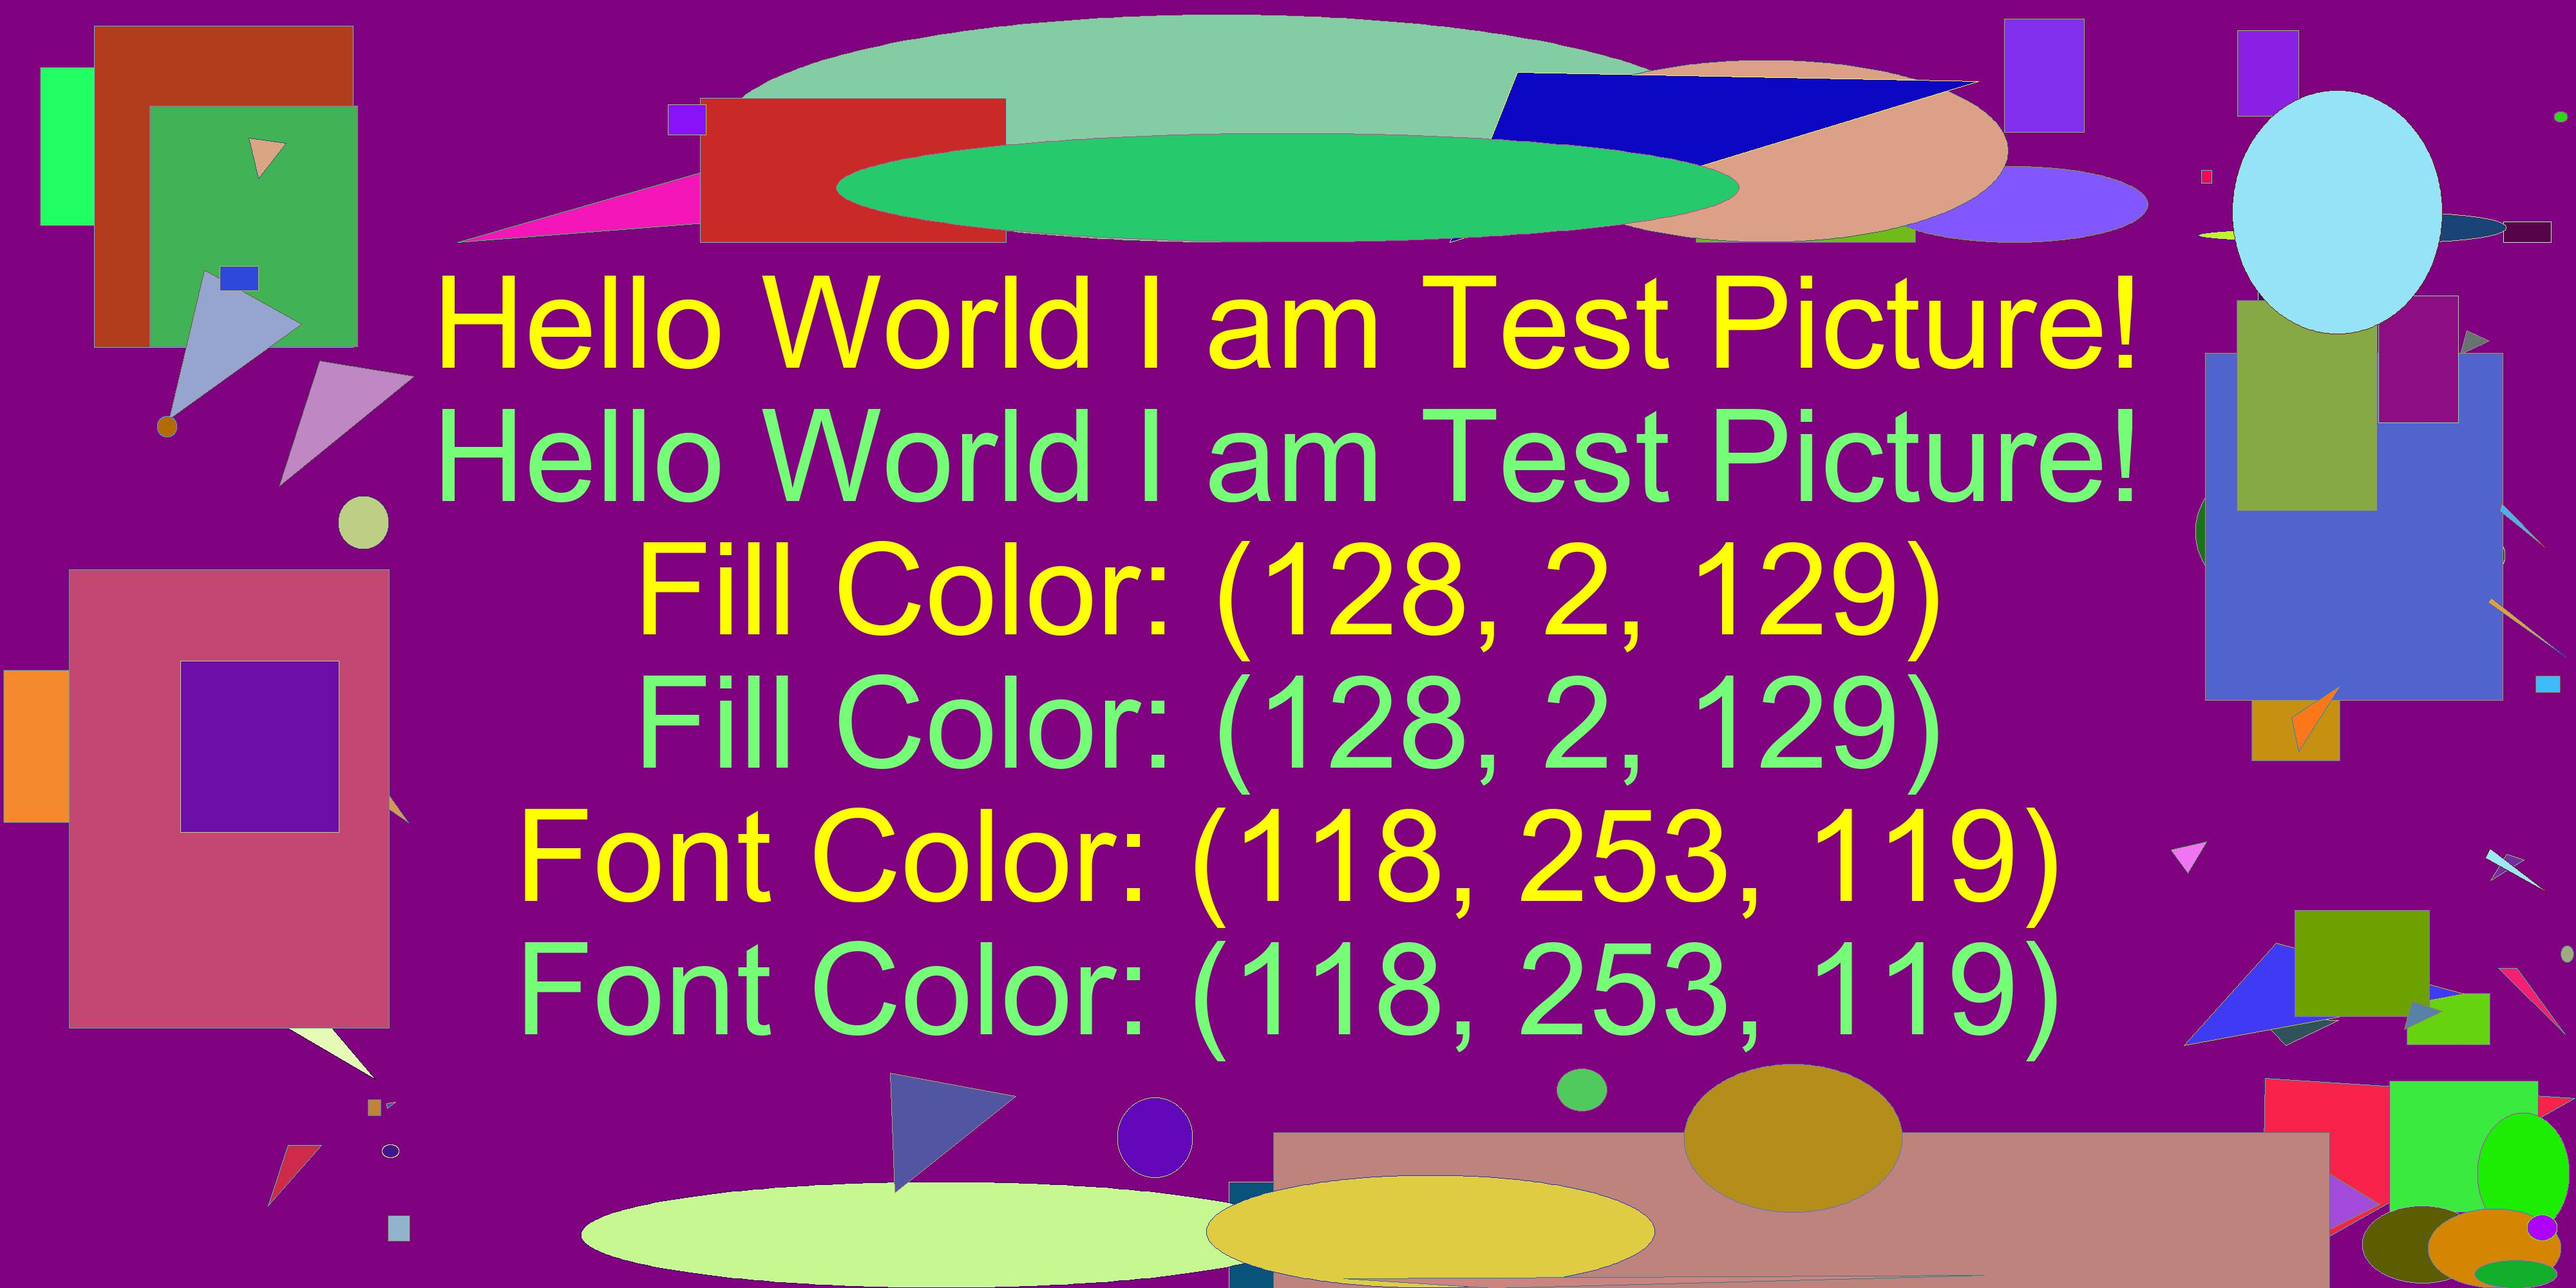
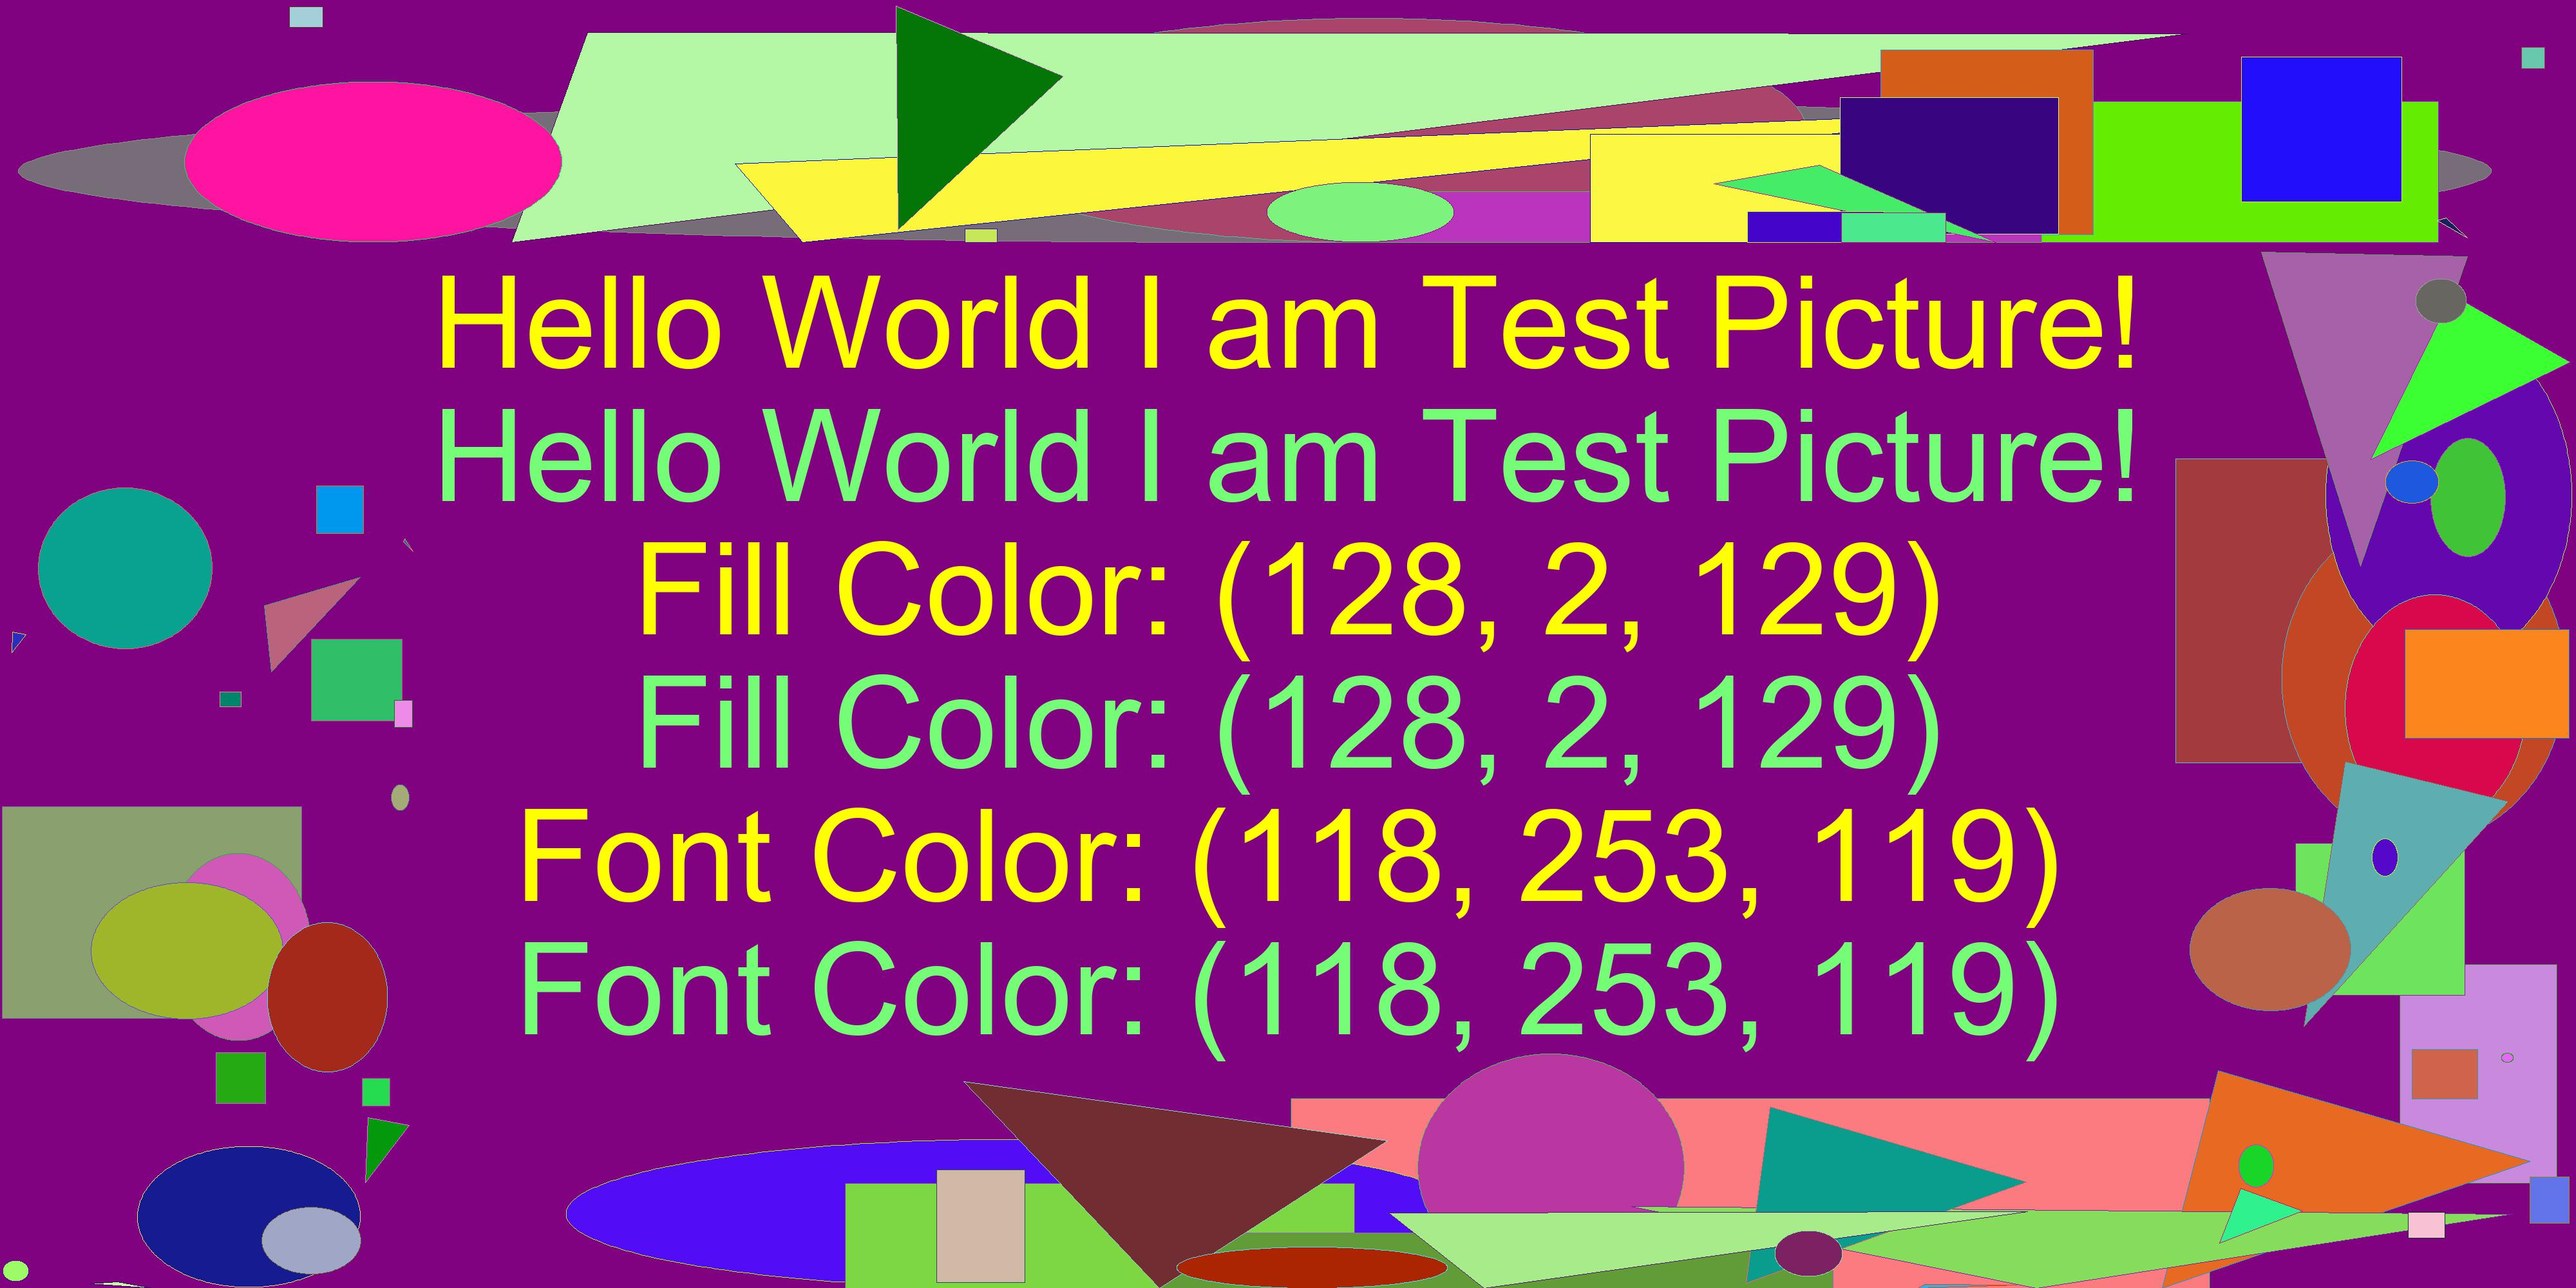
small visible better

diff --git a/genpic.py b/genpic.py
@@ -12,7 +12,7 @@ fnt = ImageFont.truetype('/mnt/c/Windows/Fonts/Arial.ttf', int(min(defaultSize) 
 defaultFontColor = 'yellow'
 GR = (1 +  sqrt(5)) / 2 # Golden Ratio
 
-def isSameColor(lhs, rhs):    
+def isSameColor(lhs, rhs):
     isSame = lambda i: abs(lhs[i] - rhs[i]) < 10
     return isSame(0) and isSame(1) and isSame(2)
 
@@ -51,14 +51,14 @@ def writeText(colour, picSize, draw):
     textY = (picSize[1] - height) / 2
     phraseY = textY
     for ind in range(len(text)):
-        phraseX = textX + (textMaxSz[0] - textSizes[ind][0]) / 2        
+        phraseX = textX + (textMaxSz[0] - textSizes[ind][0]) / 2
         draw.text((phraseX, phraseY), text[ind], font=fnt, fill=defaultFontColor)
         phraseY += textMaxSz[1] + stepY
         draw.text((phraseX, phraseY), text[ind], font=fnt, fill=colour['inv'])
         phraseY += textMaxSz[1] + stepY
-    return (int(textX - 0.01 * textMaxSz[0]), 
-            int(textY - 0.01 * height), 
-            int(textX + textMaxSz[0] * 1.01 + 0.5), 
+    return (int(textX - 0.01 * textMaxSz[0]),
+            int(textY - 0.01 * height),
+            int(textX + textMaxSz[0] * 1.01 + 0.5),
             int(textY + height * 1.01 + 0.5))
 
 # 0,0 ------ b[0] --------- b[2] ---------- p[0]
@@ -71,11 +71,11 @@ def writeText(colour, picSize, draw):
 #             |              |               |
 #      5      |      4       |      5        |
 # p[1]----------------------------------------
-def getBorders(picSize, inBox):    
+def getBorders(picSize, inBox):
     # Make sure that a random point is present in every quad same amount of
     # "times". In general for corners it is 5 while cross it is 4. Hence cross
     # rects needs to be added twice.
-    b = inBox 
+    b = inBox
     p = picSize
     return ((0, 0, b[0], b[1]), (0, 0, b[2], b[1]), (0, 0, p[0], b[1]),
             (0, 0, b[0], b[3]), (0, 0, b[0], p[1]),
@@ -87,7 +87,7 @@ def getBorders(picSize, inBox):
             (b[0], b[3], b[2], p[1]), (b[0], b[3], b[2], p[1]), (b[0], b[3], p[0], p[1]),
             (b[2], b[3], p[0], p[1]))
 
-def genRectCnd(bbox):   
+def genRectCnd(bbox):
     bw = bbox[2] - bbox[0]
     bh = bbox[3] - bbox[1]
     x = randrange(bw - 2)
@@ -98,7 +98,7 @@ def genRectCnd(bbox):
     h = randrange(minH, maxH)
     return (bbox[0] + x, bbox[1] + y, bbox[0] + x + 1 + w, bbox[1] + y + 1 + h)
 
-def genRect(borderRects):  
+def genRect(borderRects):
     bbox = borderRects[randrange(len(borderRects))]
     mw = (bbox[2] - bbox[0]) / 100
     mh = (bbox[3] - bbox[1]) / 100
@@ -109,45 +109,50 @@ def genRect(borderRects):
         cnd = genRectCnd(bbox)
         if not isSmall(cnd): # and not isThin(cnd):
             return cnd
-    print("Here")            
     return genRectCnd(bbox)
 
-#    0     w2      2 
+#    0     w2      2
 # 1  +-------------+
 #    |             |
 # h2 |             |
 #    |             |
 # 3  +-------------+
-def drawTriangle(draw, colour, rect):    
+def prepTriangle(draw, colour, rect):
     width = rect[2] - rect[0]
     height = rect[3] - rect[1]
     w2 = rect[0] + randrange(int(width / 2 + 0.5))
     h2 = rect[1] + randrange(int(height / 2 + 0.5))
-    switcher = {
-        0: lambda : ((w2, rect[1]), (rect[2], rect[3]), (rect[0], h2)),
-        1: lambda : ((rect[2], h2), (rect[0], rect[3]), (w2, rect[1])),
-        2: lambda : ((w2, rect[3]), (rect[0], rect[1]), (rect[2], h2)),
-        3: lambda : ((rect[0], h2), (rect[2], rect[1]), (w2, rect[3])),
-    }
-    triXY = switcher.get(randrange(4), lambda : switcher[0])()
-    #print(triXY)                   
-    draw.polygon(triXY, fill=colour['rgb'], outline=colour['inv'])
+    switcher = (
+        lambda : ((w2, rect[1]), (rect[2], rect[3]), (rect[0], h2)),
+        lambda : ((rect[2], h2), (rect[0], rect[3]), (w2, rect[1])),
+        lambda : ((w2, rect[3]), (rect[0], rect[1]), (rect[2], h2)),
+        lambda : ((rect[0], h2), (rect[2], rect[1]), (w2, rect[3])),
+    )
+    triXY = switcher[randrange(len(switcher))]()
+    #print(triXY)
+    return {'area' : 1/3 * width * height, 'draw' : lambda : draw.polygon(triXY, fill=colour['rgb'], outline=colour['inv'])}
+
+def prepEllipse(draw, colour, rect):
+    width = rect[2] - rect[0]
+    height = rect[3] - rect[1]
+    return {'area' : 3/4 * width * height, 'draw' : lambda : draw.ellipse(rect, fill=colour['rgb'], outline=colour['inv'])}
+
+def prepRectangle(draw, colour, rect):
+    width = rect[2] - rect[0]
+    height = rect[3] - rect[1]
+    return {'area' : width * height, 'draw' : lambda : draw.rectangle(rect, fill=colour['rgb'], outline=colour['inv'])}
 
 def drawFigures(colour, picSize, draw, inBox):
     total = randrange(64, 256)
     borderRects = getBorders(picSize, inBox)
-    switcher = {
-        0: drawTriangle,
-        1: lambda draw, fClr, fRct : draw.ellipse(fRct, fill=fClr['rgb'], outline=fClr['inv']),
-        2: lambda draw, fClr, fRct : draw.rectangle(fRct, fill=fClr['rgb'], outline=fClr['inv']),
-    }
-    for i in range(total):
-        figColor = randomColour(colour)
-        figRect = genRect(borderRects)
-        func = switcher.get(randrange(3), lambda : switcher[0](draw, figColor, figRect))
-        func(draw, figColor, figRect)
+    switcher = (prepTriangle, prepEllipse, prepRectangle)
+    amount = len(switcher)
+    figures = [switcher[randrange(amount)](draw,  randomColour(colour), genRect(borderRects)) for i in range(total)]
+    figures.sort(key=lambda f: f['area'], reverse=True)
+    for figure in figures:
+        figure['draw']()
 
-def createImage(folder, triInd, picSize):    
+def createImage(folder, triInd, picSize):
     colour = calcColor(triInd)
     img = Image.new('RGB', picSize, color=colour['rgb'])
     draw = ImageDraw.Draw(img)
@@ -166,16 +171,16 @@ def main(amount, folder):
     count = 0
     for r in reds:
         for b in blues:
-            for g in greens:                                
+            for g in greens:
                 name = createImage(folder, (r,g,b), defaultSize)
-                count += 1 
+                count += 1
                 print("%d: %s %.3f%%" % (count, name, 100 * count/amount))
     remain = amount - steps * steps * greenSteps
     if remain > 0:
         greens = list(range(0, 256, int((256 - 2) / remain + 0.5)))[:remain]
         for g in greens:
             name = createImage(folder, (128, g, 128), defaultSize)
-            count += 1 
+            count += 1
             print("%d*: %s %.3f%%" % (count, name, 100 * count/amount))
 
 parser = ArgumentParser(description='Generate random images.')
@@ -184,5 +189,5 @@ parser.add_argument('--folder', nargs='?', type=str, default='./', help='destina
 
 if __name__ == "__main__":
     args = parser.parse_args()
-    #args = parser.parse_args('--amount 1 --folder ./pictures'.split())    
+    #args = parser.parse_args('--amount 1 --folder ./pictures'.split())
     main(args.amount, args.folder)
